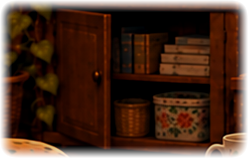
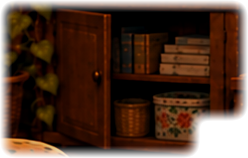
Tasse nicht mehr doppelt

Changed region(s): [[0.7339, 0.6582, 1.0, 1.0]]

diff --git a/UEBERGABE-OSTERN.md b/UEBERGABE-OSTERN.md
@@ -159,7 +159,7 @@ Vier Ausschnitte, alle mit `nah: ''` — **Nahaufnahmen fehlen noch**:
 - `g2_spind` Spind rechts (1560,150 214×680)
 
 ### Wohnzimmer im Detail
-- `w_regal` Schrank unter dem Bücherregal (862,336 236×146), Flicken → Ei e12
+- `w_regal` Schrank unter dem Bücherregal (862,336 236×146), Flicken mit Aussparung für die Tasse → Ei e12
 - `w_tvmoebel` Fernsehmöbel (1215,400 559×108) → Ei e13. Flicken, Kante unter den Porzellanfiguren — die stehen in den beiden Bildern versetzt.
 - `w_gemaelde` Bild an der Wand (415,0 275×188), typ `nehmen` → Gegenstand `gemaelde`
 - `w_nagel` derselbe Fleck, typ `ziel`, nur sichtbar wenn `bild_ab`. Nimmt das
@@ -312,6 +312,10 @@ macht daraus ein PNG mit Alphakanal:
 1. Quellbild farblich ans Grundbild angleichen, zweistufig
 2. Maske auf die veränderte Form beschränken — entweder automatisch aus dem
    Differenzbild oder per `form=(x0,y0,x1,y1)` fest vorgegeben
+2b. `aussparung=[(x0,y0,x1,y1), ...]` nimmt Bereiche wieder heraus. Nötig für
+   Dinge, die halb im Ausschnitt stehen und im Quellbild versetzt sind — die
+   erscheinen sonst doppelt. Im Wohnzimmer betrifft das die Tasse auf dem
+   Couchtisch, die in den Ausschnitt des Bücherregal-Schranks ragt.
 3. Maskenrand weich auslaufen lassen
 4. Auf die Maskengrösse zuschneiden
 
